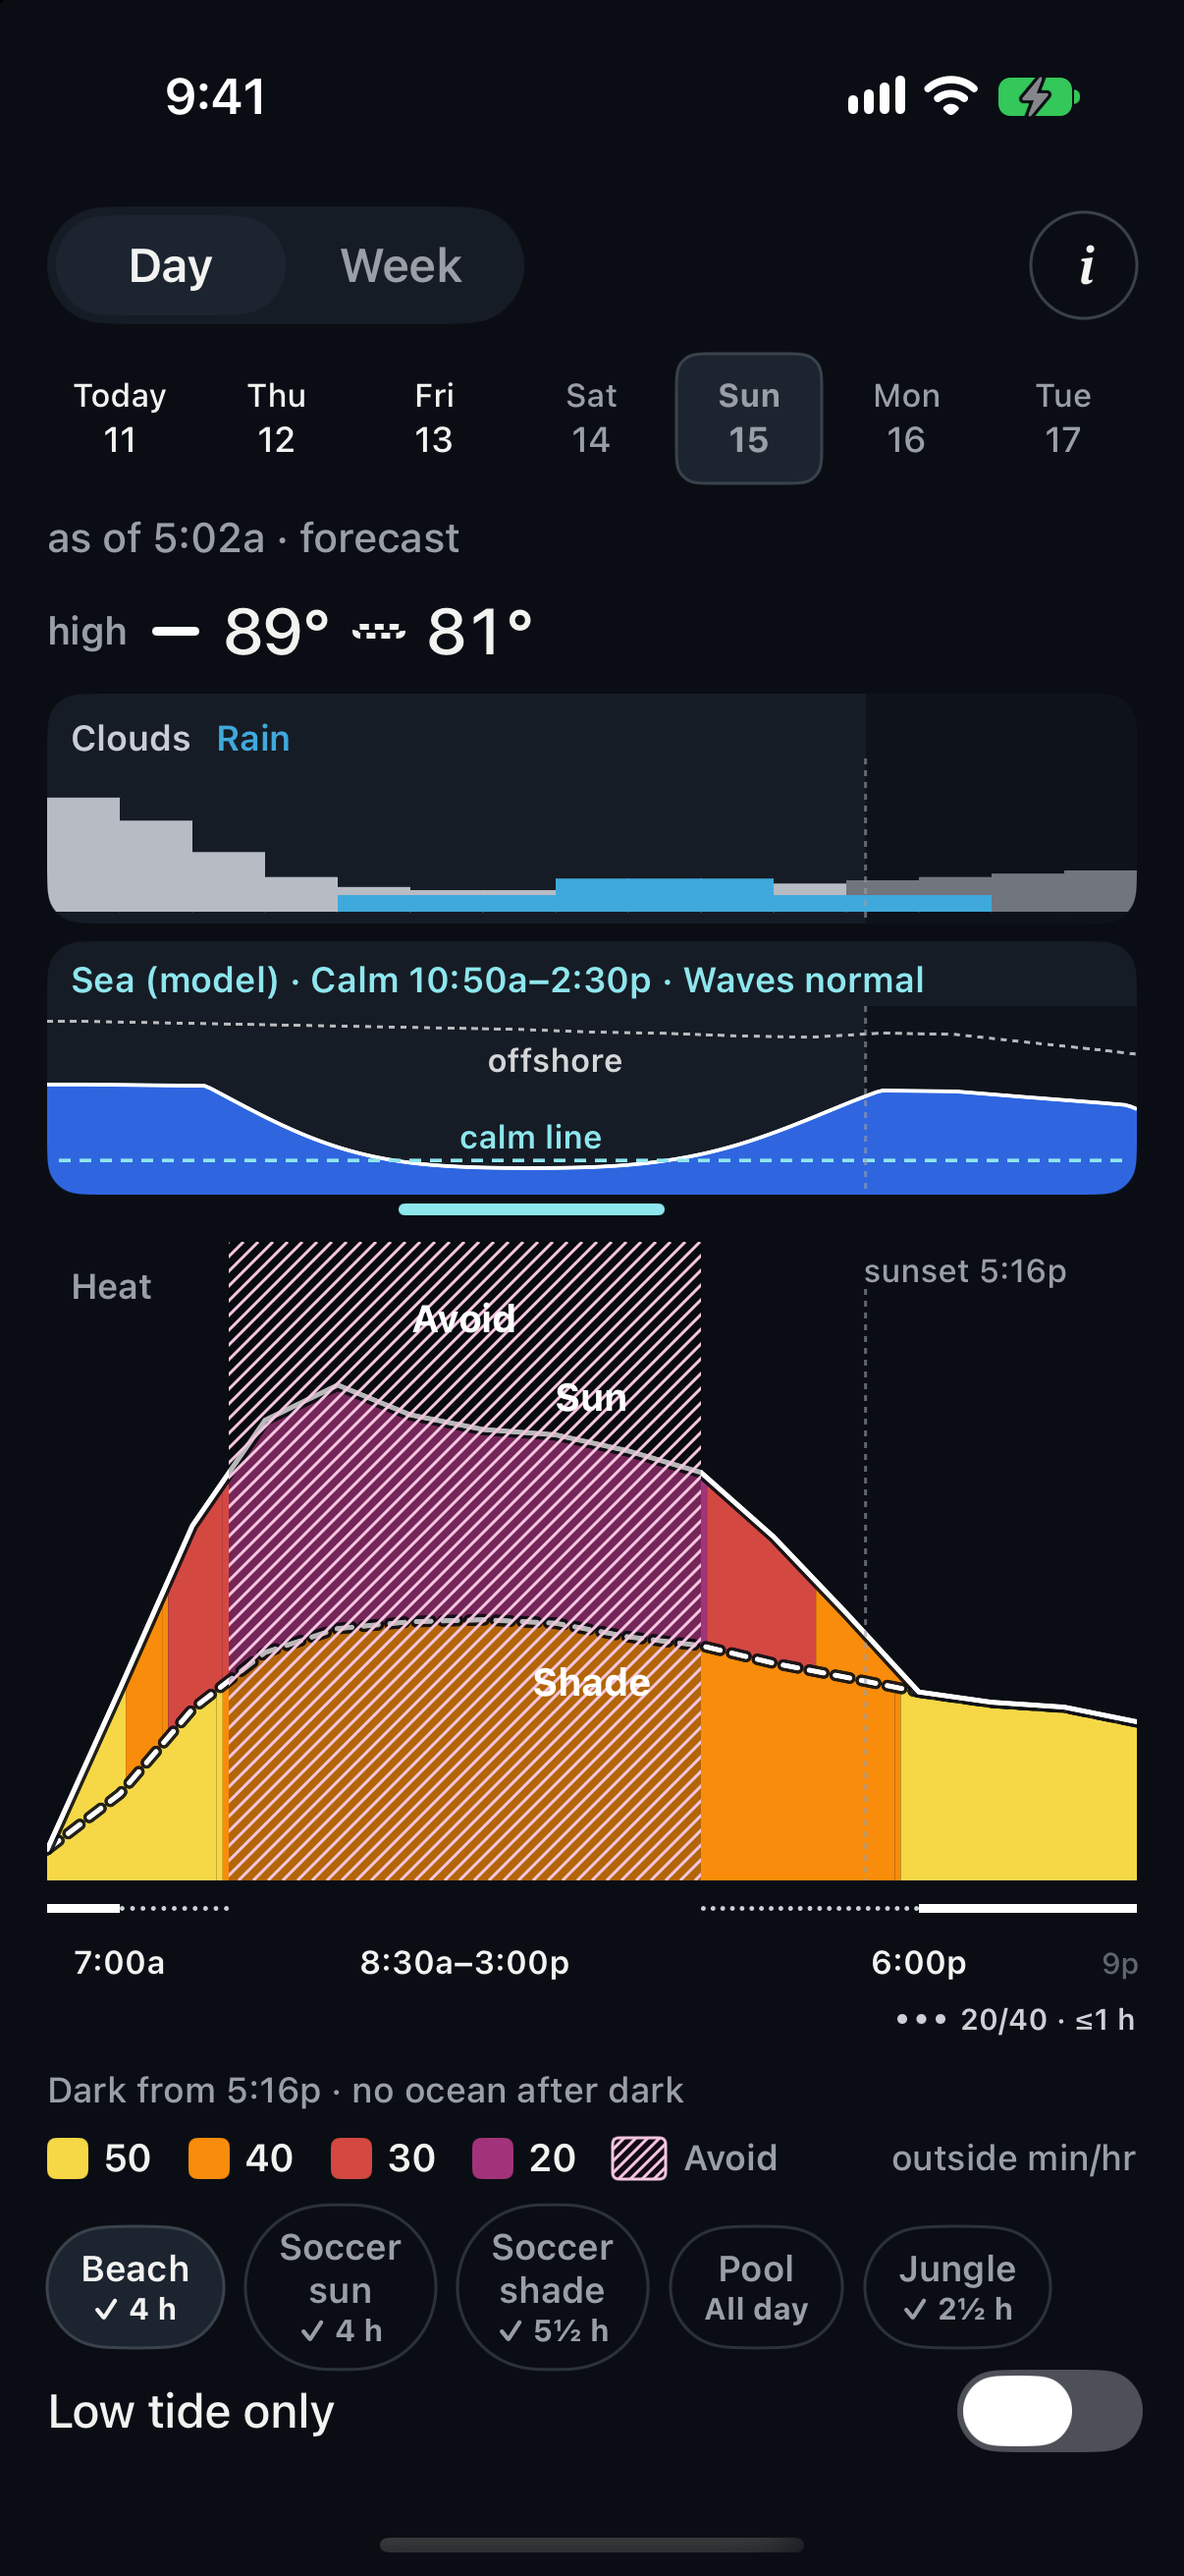
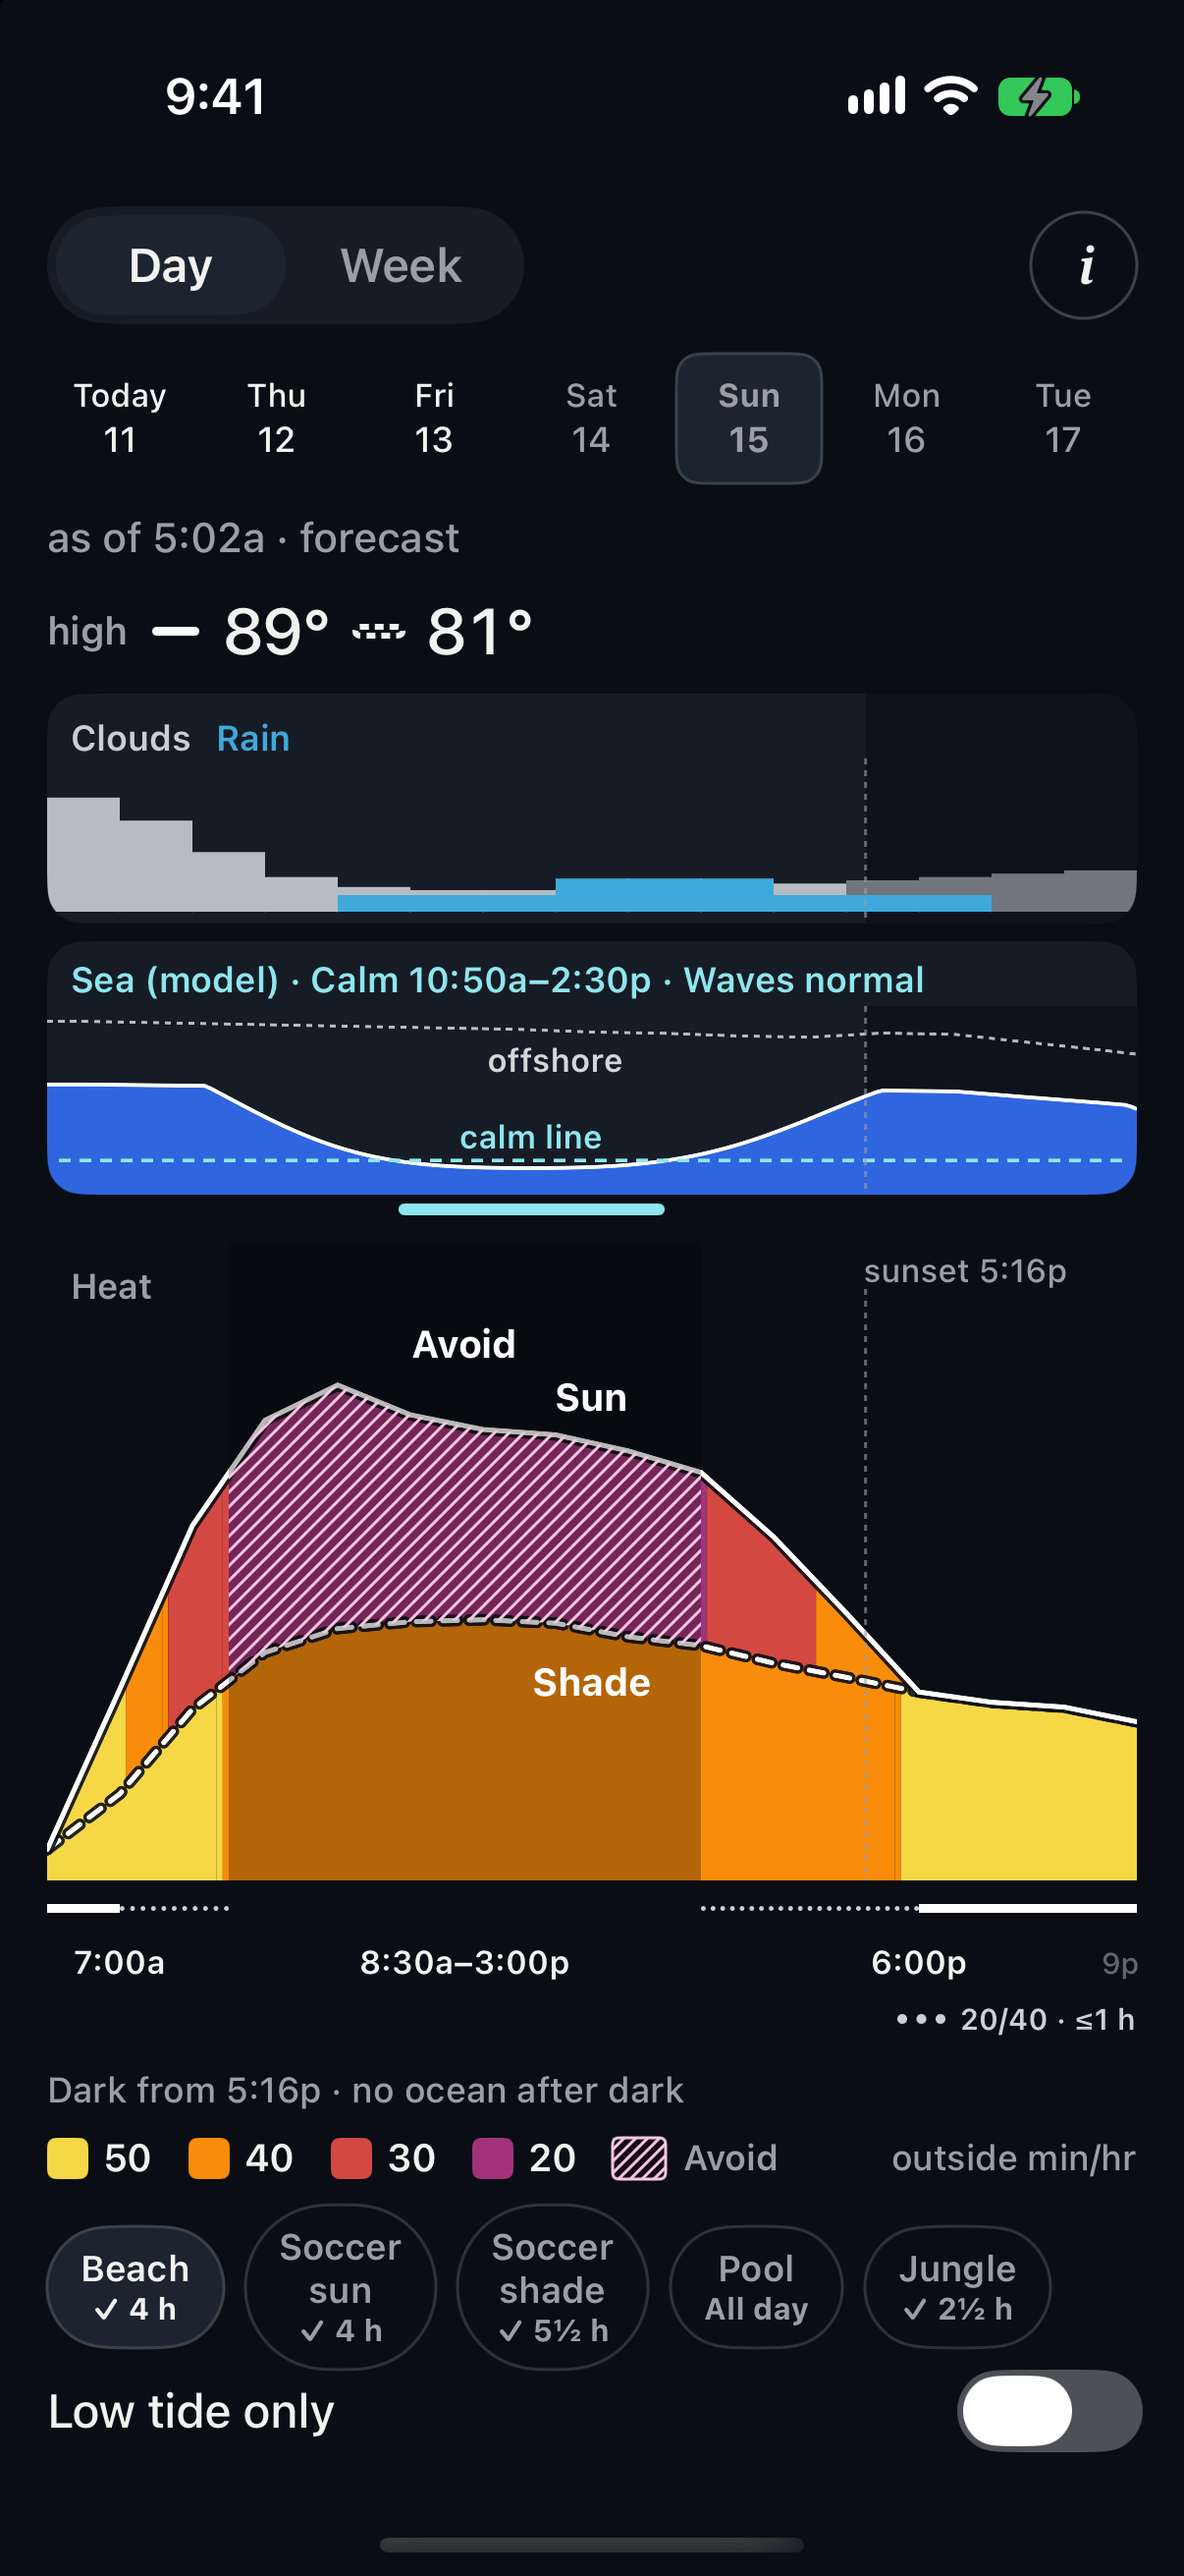
Restore the locked hatch for hours at 32.3 °C.
The stop band is hatched again in the Day plot and the Week strips. The Avoid overlay stays on top, with its stripes kept under the sun line.

Changed region(s): [[0.1841, 0.6178, 0.6136, 0.7414], [0.1841, 0.4634, 0.6136, 0.587]]

diff --git a/ios/SamaraConditions/DayScreen.swift b/ios/SamaraConditions/DayScreen.swift
@@ -374,10 +374,31 @@ struct DayScreen: View {
             let x1 = axis.x(CareDay.date(hour: run.end, on: day.sunrise), width: size.width)
             let rect = CGRect(x: x0, y: 0, width: max(1, x1 - x0), height: size.height)
             context.fill(Path(rect), with: .color(.black.opacity(0.28)))
-            hatch(in: rect, context: context, gap: 5)
+            var under = Path()
+            var peak = size.height
+            var forward: [CGPoint] = []
+            var back: [CGPoint] = []
+            var cursor = run.start
+            while cursor <= run.end + 1e-6 {
+                let hour = min(run.end, cursor)
+                let x = axis.x(CareDay.date(hour: hour, on: day.sunrise), width: size.width)
+                let sunY = heatY(ActivityWindows.interpolate(sun, hour), size)
+                let shadeY = heatY(ActivityWindows.interpolate(shade, hour), size)
+                forward.append(CGPoint(x: x, y: sunY))
+                back.append(CGPoint(x: x, y: shadeY))
+                peak = min(peak, sunY)
+                cursor += 5.0 / 60
+            }
+            if let first = forward.first {
+                under.move(to: first)
+                forward.dropFirst().forEach { under.addLine(to: $0) }
+                back.reversed().forEach { under.addLine(to: $0) }
+                under.closeSubpath()
+            }
+            hatch(in: rect, context: context, gap: 5, clip: under)
             context.draw(
                 Text("Avoid").font(.system(size: 13, weight: .bold)).foregroundColor(.white),
-                at: CGPoint(x: (x0 + x1) / 2, y: 26)
+                at: CGPoint(x: (x0 + x1) / 2, y: max(14, peak - 14))
             )
         }
     }
@@ -396,10 +417,12 @@ struct DayScreen: View {
             cursor = cursor.addingTimeInterval(5 * 60)
         }
         func paint(_ zone: HeatMinutes, _ path: Path) {
-            let color: Color
-            if case .stop = zone { color = Palette.zone(.minutes(20)) }
-            else { color = Palette.zone(zone) }
-            context.fill(path, with: .color(color))
+            if zone == .stop {
+                context.fill(path, with: .color(Palette.hatch))
+                hatch(in: path.boundingRect, context: context, gap: 5, clip: path)
+            } else {
+                context.fill(path, with: .color(Palette.zone(zone)))
+            }
         }
         func runs(_ key: KeyPath<Sample, HeatMinutes>) -> [Range<Int>] {
             var result: [Range<Int>] = []

diff --git a/ios/SamaraConditions/WeekRows.swift b/ios/SamaraConditions/WeekRows.swift
@@ -237,8 +237,12 @@ struct WeekPages: View {
             let x0 = axis.x(run.start, width: size.width)
             let x1 = axis.x(run.end, width: size.width)
             let rect = CGRect(x: x0, y: 0, width: max(1, x1 - x0 + 0.5), height: 16)
-            let fill = run.zone == .stop ? Palette.zone(.minutes(20)) : Palette.zone(run.zone)
-            context.fill(Path(rect), with: .color(muted ? fill.opacity(0.45) : fill))
+            if run.zone == .stop {
+                context.fill(Path(rect), with: .color(muted ? Palette.hatch.opacity(0.45) : Palette.hatch))
+                hatch(in: rect, context: context, gap: 4)
+            } else {
+                context.fill(Path(rect), with: .color(muted ? Palette.zone(run.zone).opacity(0.45) : Palette.zone(run.zone)))
+            }
         }
         let sunsetX = axis.x(day.sunset, width: size.width)
         var hair = Path()

diff --git a/ios/SamaraCore/Tests/SamaraCoreTests/CoreTests.swift b/ios/SamaraCore/Tests/SamaraCoreTests/CoreTests.swift
@@ -144,8 +144,8 @@ final class CoreTests: XCTestCase {
         XCTAssertEqual(TemperatureScale.celsius.whole(27.88), "28°")
         XCTAssertEqual(TemperatureScale.fahrenheit.threshold(32.3), "90.1 °F")
         let plan = ActivityWindows.plan(hours: day.hours, activity: .beach, sunsetHour: CareDay.hour(day.sunset), rulesDay: day.sunrise)
-        XCTAssertEqual(plan.runs.map(\.start), plan.runs.map(\.start))
-        XCTAssertNotNil(plan.minutesKey)
+        XCTAssertEqual(plan.minutesKey, "20/40 · ≤1 h")
+        XCTAssertNotEqual(TemperatureScale.fahrenheit.whole(27.88), TemperatureScale.celsius.whole(27.88))
     }
 
     func testPillsStayInsideTheBand() {

diff --git a/docs/ISSUES.md b/docs/ISSUES.md
@@ -254,3 +254,11 @@ Grade C+. The rules match. These are the row fixes. Not uploaded.
 6. A 5-minute Avoid on Saturday stays labelled.
 7. Avoid hours are hatched, and the legend shows that hatch only when the plot does.
 8. The Kids line is the approved sentence about 15-minute and 13-minute bouts.
+
+## Hatch regression, Pepper's review of 38502b8, not signed off
+
+Grade B. The eight row fixes pass. These are the follow-ups. Not uploaded.
+
+1. Hours at 32.3 °C and above fill with the locked hatch again, in the Day plot and the Week strips. The Avoid dim and hatch stay on top of that.
+2. The Avoid hatch is clipped under the sun line. The dim still covers the full column, so the word Avoid sits on dimmed sky.
+3. The temperature test no longer compares a plan with itself.
